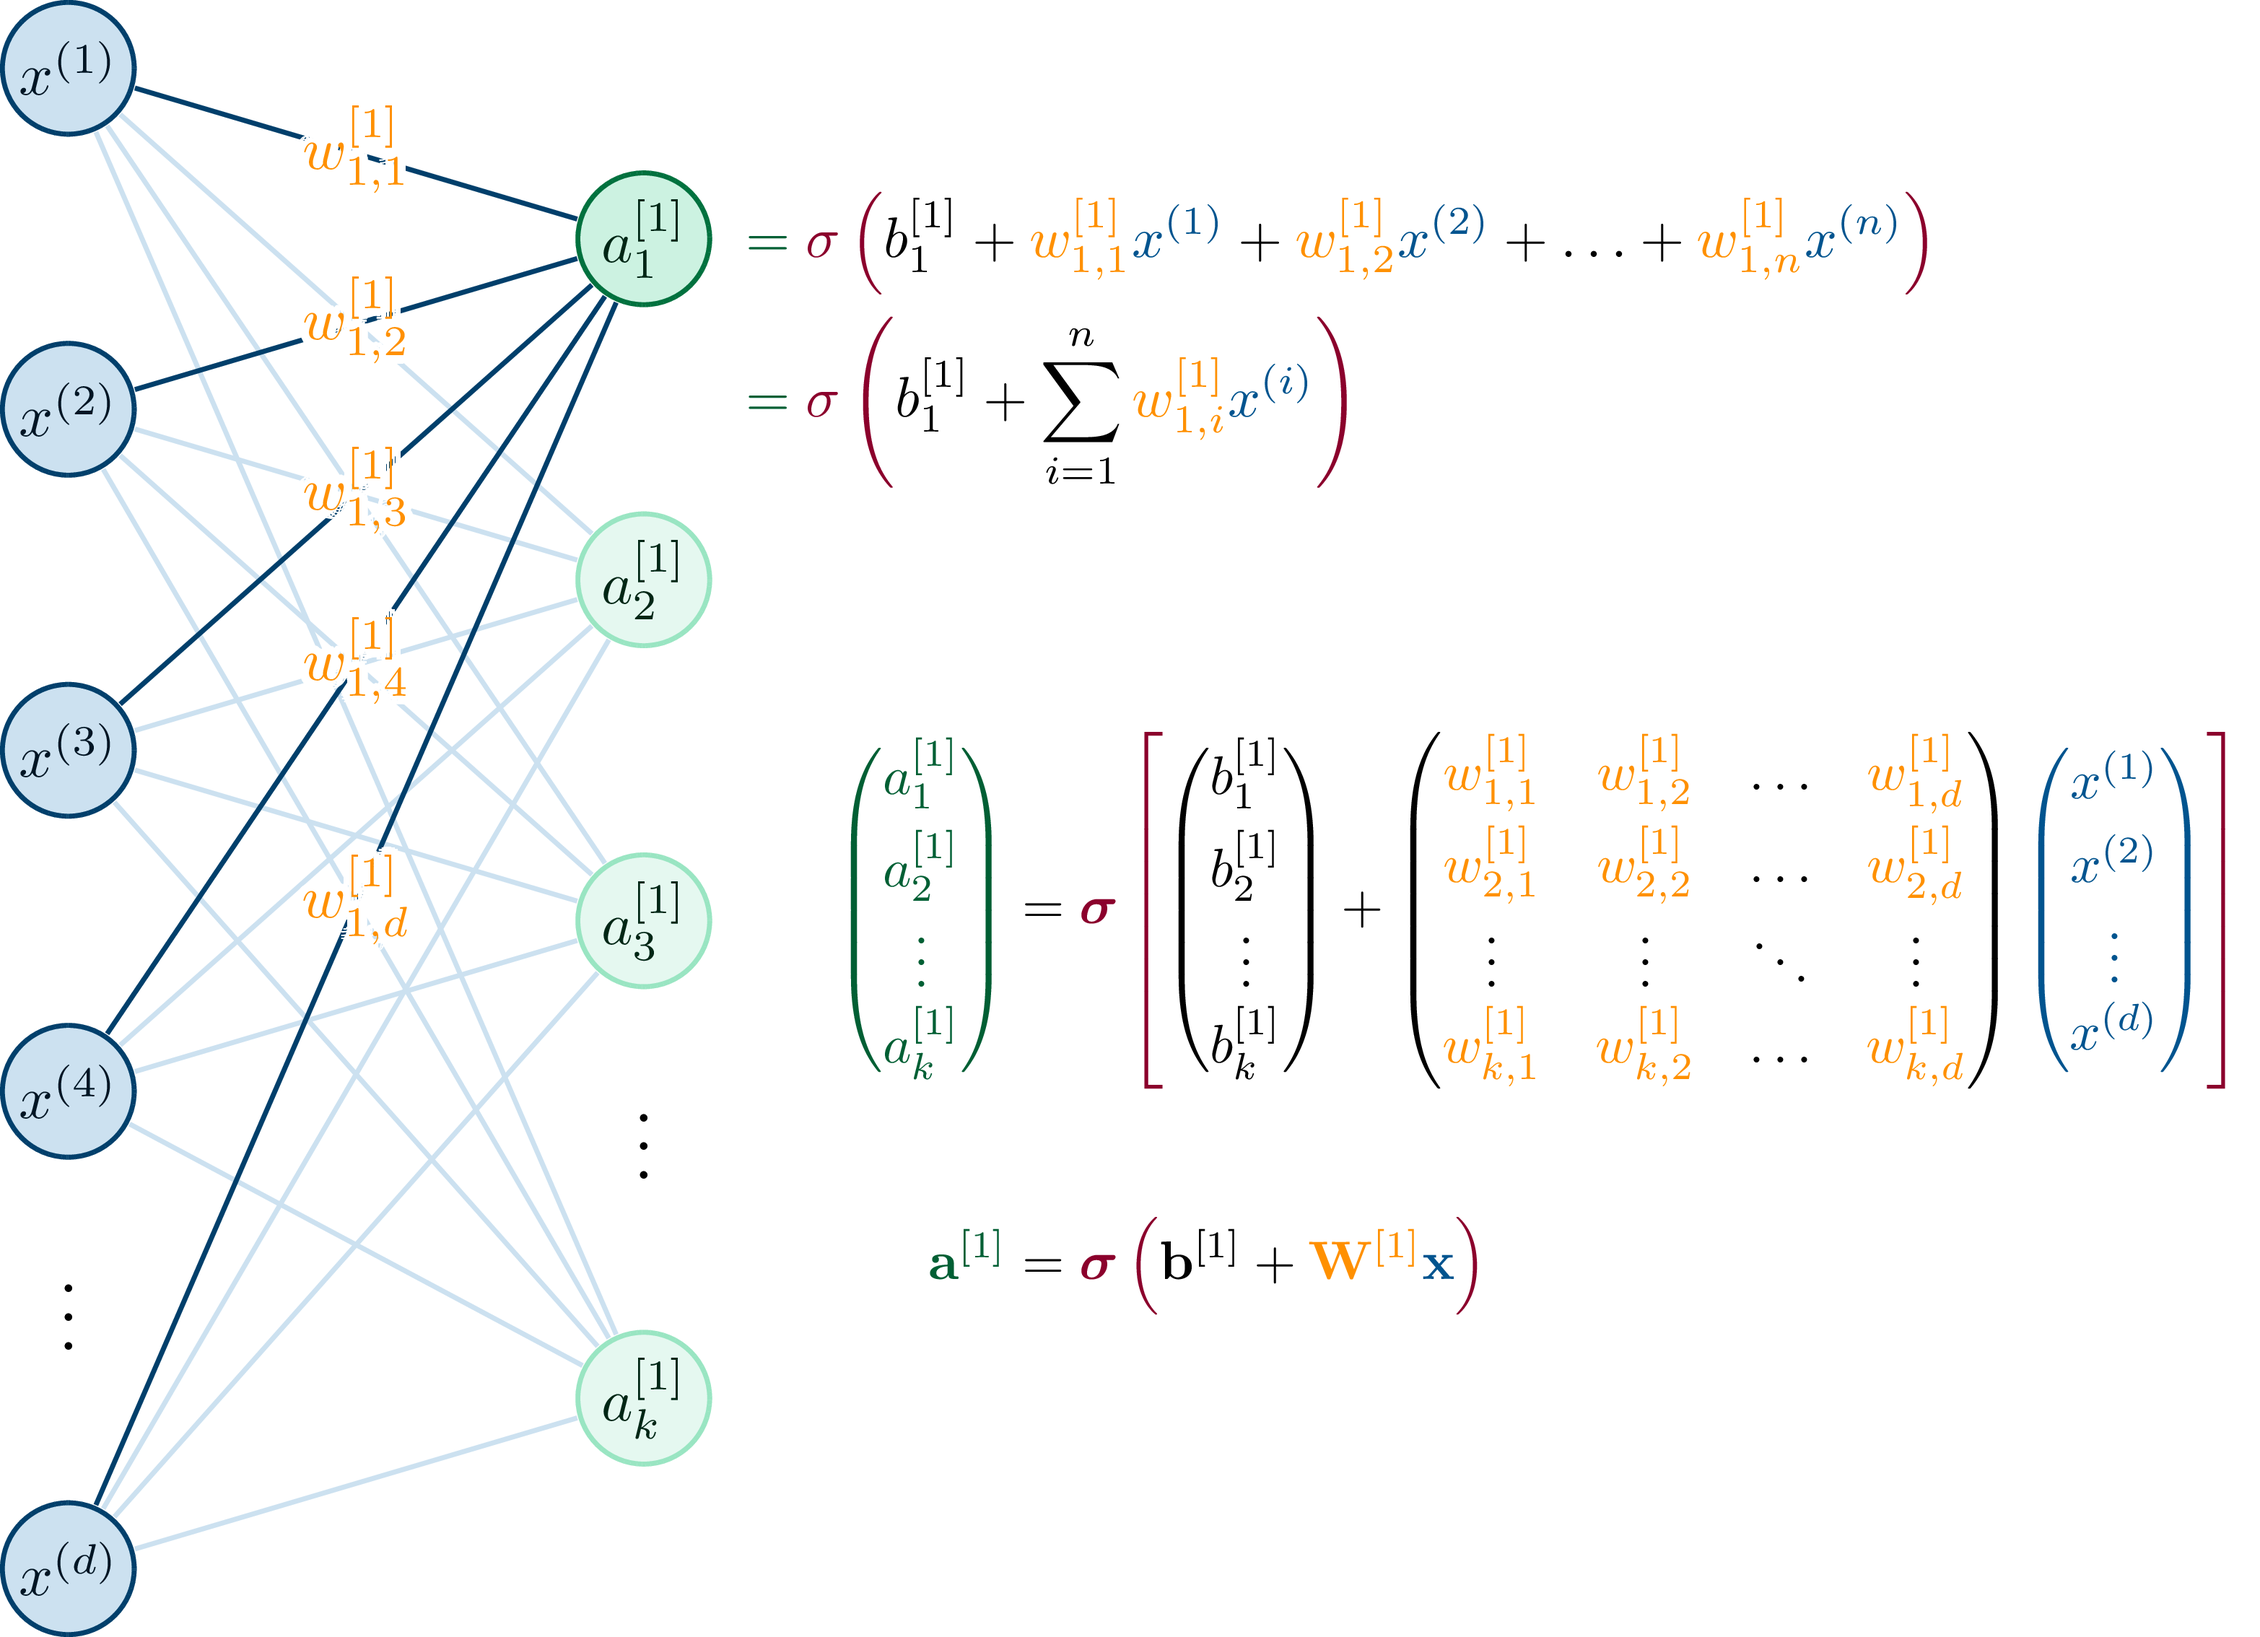
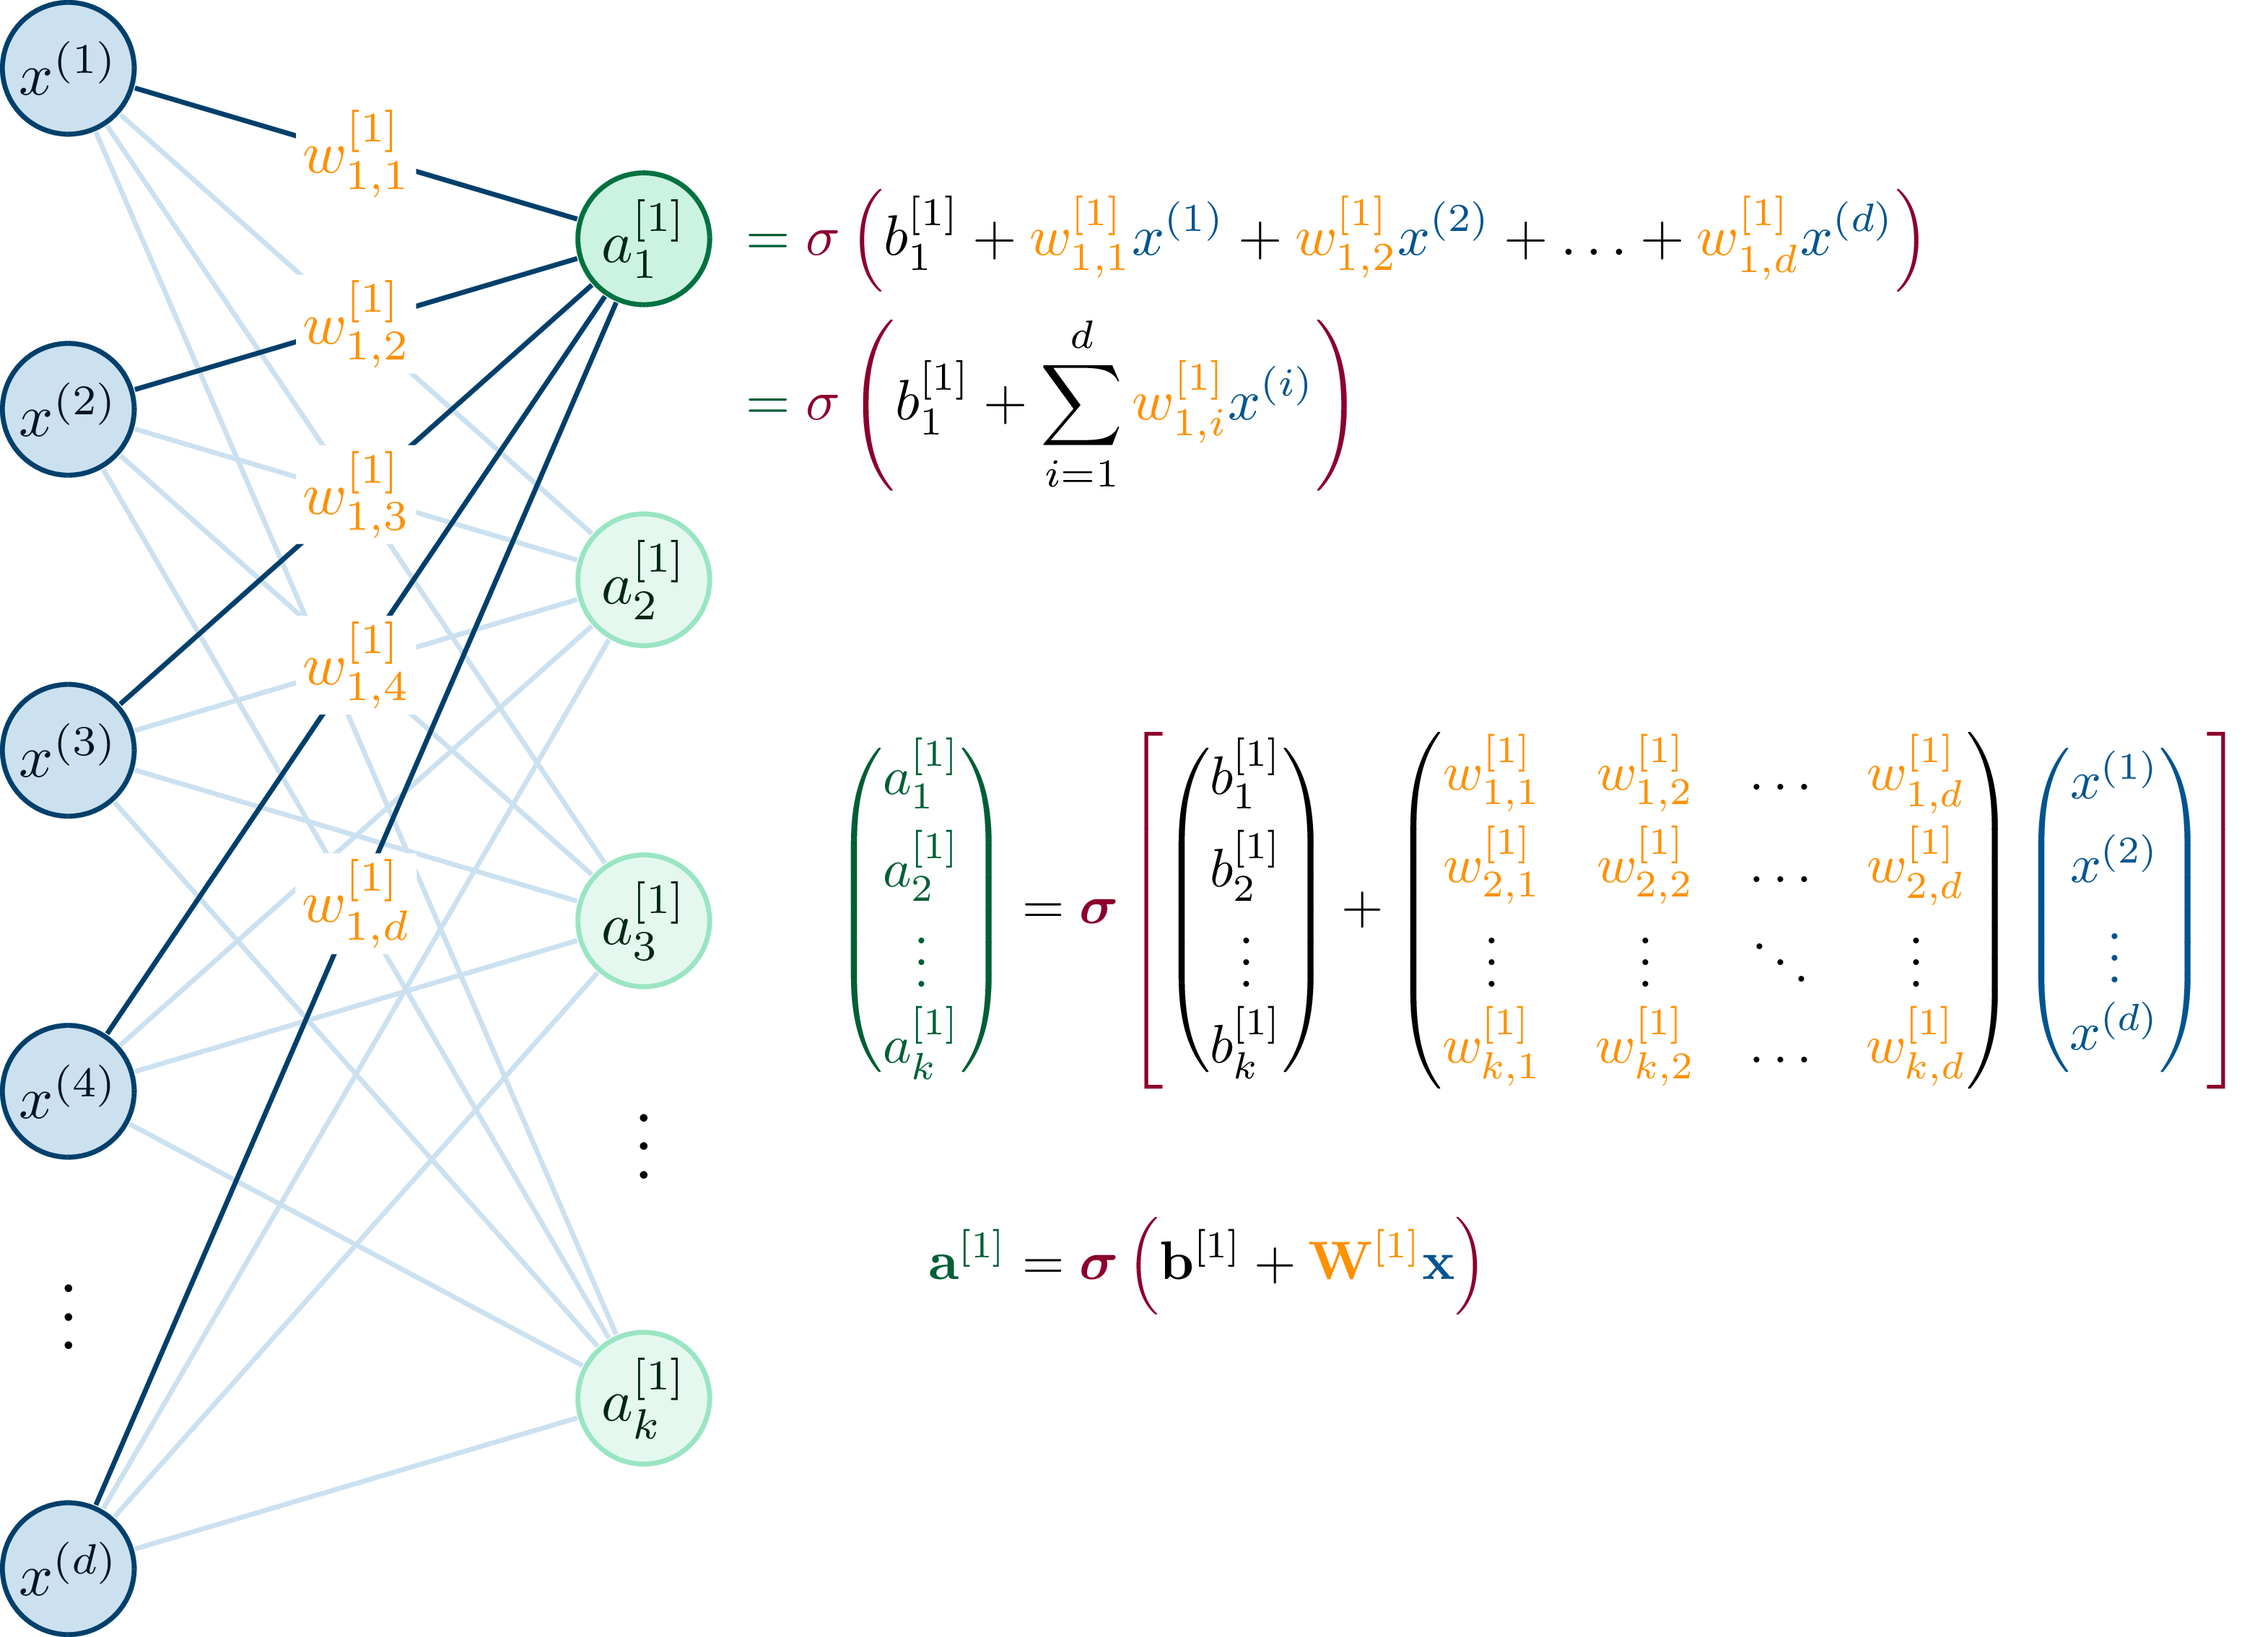
Update illustration of intermediate activations

diff --git a/other/intermediate-activation.tex b/other/intermediate-activation.tex
@@ -6,8 +6,6 @@
 \usepackage{tikz}
 \usepackage{amsmath}
 \usepackage{xcolor}
-\usepackage{contour}
-\contourlength{1.4pt}
 
 
 %% COLORS %%
@@ -48,7 +46,7 @@
             (NO-\i) at (1, \y) {$a_{\index}^{[1]}$};
           \foreach \j [evaluate={\index=(\j<\NI?int(\j):"d");}] in {1, ..., \NI}{  % loop over nodes in previous layer
             \draw[connect] (NI-\j) -- (NO-\i)
-              node[pos=0.50] { \contour{white} {$w_{1,\index}^{[1]}$} };
+              node[fill=white, inner sep=1pt, pos=0.50] {{$w_{1, \index}^{[1]}$} };
           }
         \else  % other light-colored nodes
           \node[node, green!20!black, draw=green!40!white, fill=green!10!white]
@@ -65,17 +63,17 @@
       
       % EQUATIONS
       \def\arg#1{{\color{darkblue}x^{(#1)}}}
-      \def\wght#1#2{{\color{orange}w_{#1,#2}^{[1]}}}
+      \def\wght#1#2{{\color{orange}w_{#1, #2}^{[1]}}}
       \def\bias#1{b_{#1}^{[1]}}
       \def\actvn#1{a_{#1}^{[1]}}
 
       \node[below=17, right=11, darkgreen, scale=0.95] at (NO-1)
         {$\begin{aligned}
            &= \color{darkred}\sigma\left( \color{black}
-                \bias{1} + \wght{1}{1}\arg{1} + \wght{1}{2}\arg{2} + \ldots + \wght{1}{n}\arg{n}
+                \bias{1} + \wght{1}{1}\arg{1} + \wght{1}{2}\arg{2} + \ldots + \wght{1}{d}\arg{d}
               \color{darkred}\right) \\
            &= \color{darkred}\sigma\left( \color{black}
-                \bias{1} + \sum_{i=1}^{n} \wght{1}{i}\arg{i}
+                \bias{1} + \sum_{i=1}^{d} \wght{1}{i}\arg{i}
                \color{darkred}\right)
          \end{aligned}$};
       \node[right, scale=0.9] at (1.3, -1.3)
